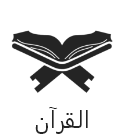
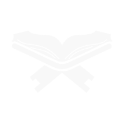
+ finish homescreen

diff --git a/lib/ui/home/home_screen.dart b/lib/ui/home/home_screen.dart
@@ -47,7 +47,7 @@ class _HomeScreenState extends State<HomeScreen> {
               ),
               BottomNavigationBarItem(
                 backgroundColor:Theme.of(context).colorScheme.primary,
-                icon:ImageIcon(AssetImage('assets/images/quran-quran-svgrepo-com.png')),
+                icon:ImageIcon(AssetImage('assets/images/quran.png')),
               label: 'Ahadeth',
               ),
               BottomNavigationBarItem(
